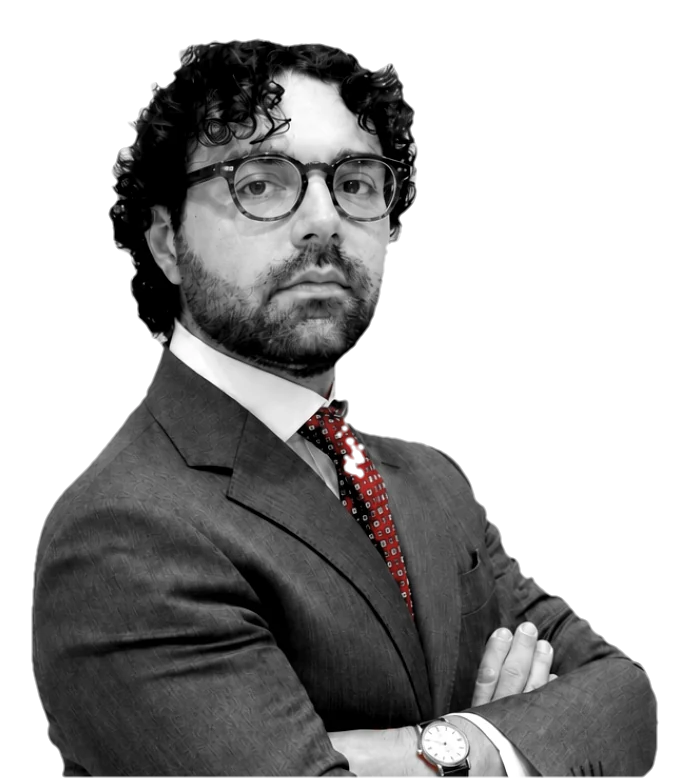
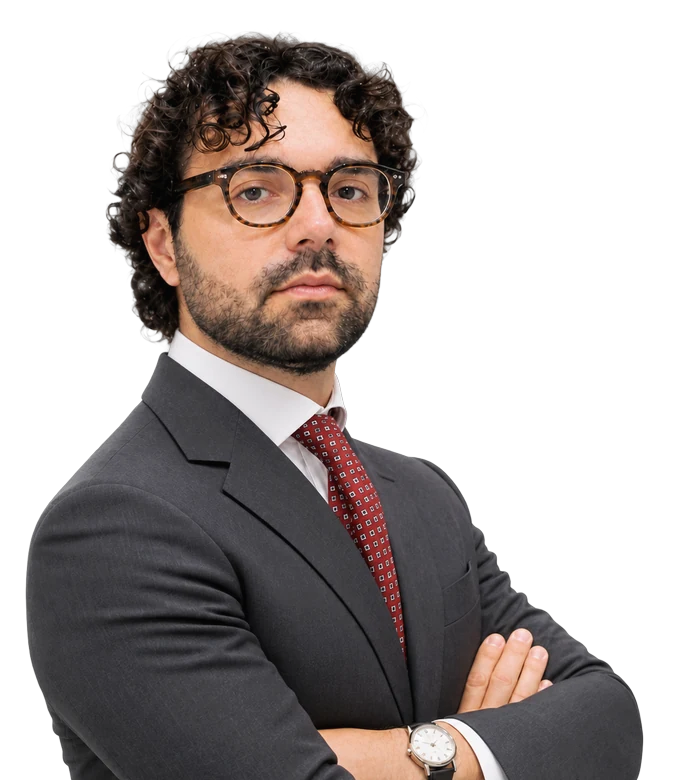
Nuove foto di Roberto e Paolo, stessa posizione e altezza
Claude-Session: https://claude.ai/code/session_01EmfZdZYx132FQue3Z3wmAy

Changed region(s): [[0.03, 0.0308, 0.96, 1.0], [0.21, 0.5231, 0.24, 0.5538], [0.18, 0.4923, 0.21, 0.5231]]

diff --git a/index.html b/index.html
@@ -10,15 +10,15 @@
 <meta name="theme-color" content="#25272C">
 <link rel="icon" href="assets/favicon.svg" type="image/svg+xml">
 <link rel="preload" href="assets/fonts/schibsted-grotesk-800.woff2" as="font" type="font/woff2" crossorigin>
-<link rel="stylesheet" href="assets/fonts.css?v=mwe0fsso">
-<link rel="stylesheet" href="assets/index.css?v=mwe0fsso">
+<link rel="stylesheet" href="assets/fonts.css?v=mwe1qma5">
+<link rel="stylesheet" href="assets/index.css?v=mwe1qma5">
 </head>
 <body>
 <div class="site"><a class="skip" href="#sapevi">Vai al contenuto</a>
 <section class="hero" id="top">
 <div class="wall" aria-hidden="true">previte<i></i></div>
 <header class="top"><a class="logo" href="#top" aria-label="previte">previte<i aria-hidden="true"></i></a><nav class="nav" aria-label="Principale"><a href="#sapevi">Lo sapevi?</a><a href="#servizi">Servizi</a><a class="pl" href="prima-lettura.html">Prima lettura</a><a class="cta" href="#scrivici">Scrivici</a></nav></header>
-<div class="duo"><img class="rob" src="assets/roberto-previte.webp" alt="Avv. Roberto Previte"><img src="assets/paolo-previte.webp" alt="Avv. Paolo Previte"></div>
+<div class="duo"><img class="rob" src="assets/roberto-previte.webp?v=mwe1qma5" alt="Avv. Roberto Previte"><img src="assets/paolo-previte.webp?v=mwe1qma5" alt="Avv. Paolo Previte"></div>
 <h1 class="tag up"><span>Avvocati</span><span>per le</span><span>imprese</span></h1>
 <div class="names"><div><b>Roberto Previte</b><span>Avvocato cassazionista</span></div><div><b>Paolo Previte</b><span>Avvocato</span></div></div>
 <nav class="tiles" aria-label="Servizi"><button type="button" class="tile" data-svc="0"><b>Compliance</b><span>Modelli 231, antiriciclaggio, intelligenza artificiale</span></button><button type="button" class="tile" data-svc="1"><b>Società e contratti</b><span>Acquisizioni, quote, contratti</span></button><button type="button" class="tile" data-svc="2"><b>Crediti</b><span>Factoring, grandi debitori, recupero</span></button><button type="button" class="tile" data-svc="3"><b>Sanità</b><span>Accreditamento, budget, ASL</span></button><button type="button" class="tile" data-svc="4"><b>Enti pubblici</b><span>Appalti, concessioni, TAR</span></button></nav>
@@ -35,7 +35,7 @@
 
 <section class="sec alt" id="servizi"><div class="in"><h2 class="h up">Servizi</h2><p class="lead">Le aree di cui ci occupiamo e chi le segue. Ogni voce porta alla pagina dedicata.</p>
 <div class="svc"><div class="sl" role="group" aria-label="Scegli un’area"><button type="button" aria-pressed="true" class="st on" data-svc="0">Compliance</button><button type="button" aria-pressed="false" class="st" data-svc="1">Società e contratti</button><button type="button" aria-pressed="false" class="st" data-svc="2">Crediti</button><button type="button" aria-pressed="false" class="st" data-svc="3">Sanità</button><button type="button" aria-pressed="false" class="st" data-svc="4">Enti pubblici</button></div>
-<div aria-live="polite" style="display:contents"><div class="sp" data-sp="0"><div class="sc"><h3 class="up">Compliance</h3><p class="l">Modelli 231, antiriciclaggio, intelligenza artificiale. Dall’analisi all’adozione.</p><a class="row" href="modelli-231.html"><span class="nm">Modelli 231</span><span class="ds">Analisi dei rischi, modello, protocolli, adozione.</span><span class="go">Apri la pagina</span></a><a class="row" href="antiriciclaggio.html"><span class="nm">Antiriciclaggio</span><span class="ds">Procedure e documenti per professionisti e imprese obbligate.</span><span class="go">Apri la pagina</span></a><a class="row" href="#scrivici"><span class="nm">Intelligenza artificiale</span><span class="ds">AI Act: obblighi, scadenze, regole d’uso in azienda.</span><span class="go">Scrivici</span></a><div class="who"><a class="btn" href="#scrivici">Scrivici</a></div></div><div class="pe"><article class="pc"><div class="ph"><img src="assets/paolo-previte.webp" alt="Avv. Paolo Previte"></div><div class="pt"><b>Paolo Previte</b><span>Avvocato</span><span>Desenzano del Garda</span><a href="tel:+393271272644">+39 327 127 2644</a></div></article></div></div><div class="sp" data-sp="1" hidden><div class="sc"><h3 class="up">Società e contratti</h3><p class="l">Acquisizioni, cessioni di quote, contratti. Verifiche, negoziazione, firma.</p><a class="row" href="#scrivici"><span class="nm">Società e acquisizioni</span><span class="ds">Quote, società, rami d’azienda.</span><span class="go">Scrivici</span></a><a class="row" href="contratti-e-crediti.html"><span class="nm">Contratti</span><span class="ds">Redazione, revisione, inadempimenti.</span><span class="go">Apri la pagina</span></a><div class="who"><a class="btn" href="#scrivici">Scrivici</a></div></div><div class="pe"><article class="pc"><div class="ph"><img src="assets/paolo-previte.webp" alt="Avv. Paolo Previte"></div><div class="pt"><b>Paolo Previte</b><span>Avvocato</span><span>Desenzano del Garda</span><a href="tel:+393271272644">+39 327 127 2644</a></div></article><article class="pc"><div class="ph"><img src="assets/roberto-previte.webp" alt="Avv. Roberto Previte"></div><div class="pt"><b>Roberto Previte</b><span>Avvocato, patrocinante in Cassazione</span><span>Crotone e Roma</span><a href="tel:+39096224565">0962 24565</a></div></article></div></div><div class="sp" data-sp="2" hidden><div class="sc"><h3 class="up">Crediti</h3><p class="l">Crediti verso grandi debitori, pubblici e privati. Anche su portafogli di centinaia di posizioni.</p><a class="row" href="factoring.html"><span class="nm">Factoring e grandi debitori</span><span class="ds">Crediti ceduti verso pubbliche amministrazioni, aziende sanitarie e grandi imprese.</span><span class="go">Apri la pagina</span></a><a class="row" href="contratti-e-crediti.html"><span class="nm">Recupero crediti</span><span class="ds">Diffida, decreto ingiuntivo, pignoramento.</span><span class="go">Apri la pagina</span></a><div class="who"><a class="btn" href="#scrivici">Scrivici</a></div></div><div class="pe"><article class="pc"><div class="ph"><img src="assets/roberto-previte.webp" alt="Avv. Roberto Previte"></div><div class="pt"><b>Roberto Previte</b><span>Avvocato, patrocinante in Cassazione</span><span>Crotone e Roma</span><a href="tel:+39096224565">0962 24565</a></div></article><article class="pc"><div class="ph"><img src="assets/paolo-previte.webp" alt="Avv. Paolo Previte"></div><div class="pt"><b>Paolo Previte</b><span>Avvocato</span><span>Desenzano del Garda</span><a href="tel:+393271272644">+39 327 127 2644</a></div></article></div></div><div class="sp" data-sp="3" hidden><div class="sc"><h3 class="up">Sanità</h3><p class="l">Strutture sanitarie private. Accreditamento, contratti, budget, crediti verso le ASL.</p><a class="row" href="sanita.html"><span class="nm">Diritto sanitario</span><span class="ds">Accreditamento, contratti e rapporti con ASL e Regioni.</span><span class="go">Apri la pagina</span></a><a class="row" href="sanita.html"><span class="nm">Crediti sanitari</span><span class="ds">Prestazioni non pagate, tetti di spesa, interessi di mora.</span><span class="go">Apri la pagina</span></a><div class="who"><a class="btn" href="#scrivici">Scrivici</a></div></div><div class="pe"><article class="pc"><div class="ph"><img src="assets/roberto-previte.webp" alt="Avv. Roberto Previte"></div><div class="pt"><b>Roberto Previte</b><span>Avvocato, patrocinante in Cassazione</span><span>Crotone e Roma</span><a href="tel:+39096224565">0962 24565</a></div></article></div></div><div class="sp" data-sp="4" hidden><div class="sc"><h3 class="up">Enti pubblici</h3><p class="l">Affidamenti, concessioni, gare. Consulenza e contenzioso amministrativo.</p><a class="row" href="enti-pubblici.html"><span class="nm">Diritto amministrativo</span><span class="ds">Affidamenti, concessioni, bandi, accesso agli atti, TAR.</span><span class="go">Apri la pagina</span></a><div class="who"><a class="btn" href="#scrivici">Scrivici</a></div></div><div class="pe"><article class="pc"><div class="ph"><img src="assets/roberto-previte.webp" alt="Avv. Roberto Previte"></div><div class="pt"><b>Roberto Previte</b><span>Avvocato, patrocinante in Cassazione</span><span>Crotone e Roma</span><a href="tel:+39096224565">0962 24565</a></div></article><article class="pc"><div class="ph"><img src="assets/paolo-previte.webp" alt="Avv. Paolo Previte"></div><div class="pt"><b>Paolo Previte</b><span>Avvocato</span><span>Desenzano del Garda</span><a href="tel:+393271272644">+39 327 127 2644</a></div></article></div></div></div></div>
+<div aria-live="polite" style="display:contents"><div class="sp" data-sp="0"><div class="sc"><h3 class="up">Compliance</h3><p class="l">Modelli 231, antiriciclaggio, intelligenza artificiale. Dall’analisi all’adozione.</p><a class="row" href="modelli-231.html"><span class="nm">Modelli 231</span><span class="ds">Analisi dei rischi, modello, protocolli, adozione.</span><span class="go">Apri la pagina</span></a><a class="row" href="antiriciclaggio.html"><span class="nm">Antiriciclaggio</span><span class="ds">Procedure e documenti per professionisti e imprese obbligate.</span><span class="go">Apri la pagina</span></a><a class="row" href="#scrivici"><span class="nm">Intelligenza artificiale</span><span class="ds">AI Act: obblighi, scadenze, regole d’uso in azienda.</span><span class="go">Scrivici</span></a><div class="who"><a class="btn" href="#scrivici">Scrivici</a></div></div><div class="pe"><article class="pc"><div class="ph"><img src="assets/paolo-previte.webp?v=mwe1qma5" alt="Avv. Paolo Previte"></div><div class="pt"><b>Paolo Previte</b><span>Avvocato</span><span>Desenzano del Garda</span><a href="tel:+393271272644">+39 327 127 2644</a></div></article></div></div><div class="sp" data-sp="1" hidden><div class="sc"><h3 class="up">Società e contratti</h3><p class="l">Acquisizioni, cessioni di quote, contratti. Verifiche, negoziazione, firma.</p><a class="row" href="#scrivici"><span class="nm">Società e acquisizioni</span><span class="ds">Quote, società, rami d’azienda.</span><span class="go">Scrivici</span></a><a class="row" href="contratti-e-crediti.html"><span class="nm">Contratti</span><span class="ds">Redazione, revisione, inadempimenti.</span><span class="go">Apri la pagina</span></a><div class="who"><a class="btn" href="#scrivici">Scrivici</a></div></div><div class="pe"><article class="pc"><div class="ph"><img src="assets/paolo-previte.webp?v=mwe1qma5" alt="Avv. Paolo Previte"></div><div class="pt"><b>Paolo Previte</b><span>Avvocato</span><span>Desenzano del Garda</span><a href="tel:+393271272644">+39 327 127 2644</a></div></article><article class="pc"><div class="ph"><img src="assets/roberto-previte.webp?v=mwe1qma5" alt="Avv. Roberto Previte"></div><div class="pt"><b>Roberto Previte</b><span>Avvocato, patrocinante in Cassazione</span><span>Crotone e Roma</span><a href="tel:+39096224565">0962 24565</a></div></article></div></div><div class="sp" data-sp="2" hidden><div class="sc"><h3 class="up">Crediti</h3><p class="l">Crediti verso grandi debitori, pubblici e privati. Anche su portafogli di centinaia di posizioni.</p><a class="row" href="factoring.html"><span class="nm">Factoring e grandi debitori</span><span class="ds">Crediti ceduti verso pubbliche amministrazioni, aziende sanitarie e grandi imprese.</span><span class="go">Apri la pagina</span></a><a class="row" href="contratti-e-crediti.html"><span class="nm">Recupero crediti</span><span class="ds">Diffida, decreto ingiuntivo, pignoramento.</span><span class="go">Apri la pagina</span></a><div class="who"><a class="btn" href="#scrivici">Scrivici</a></div></div><div class="pe"><article class="pc"><div class="ph"><img src="assets/roberto-previte.webp?v=mwe1qma5" alt="Avv. Roberto Previte"></div><div class="pt"><b>Roberto Previte</b><span>Avvocato, patrocinante in Cassazione</span><span>Crotone e Roma</span><a href="tel:+39096224565">0962 24565</a></div></article><article class="pc"><div class="ph"><img src="assets/paolo-previte.webp?v=mwe1qma5" alt="Avv. Paolo Previte"></div><div class="pt"><b>Paolo Previte</b><span>Avvocato</span><span>Desenzano del Garda</span><a href="tel:+393271272644">+39 327 127 2644</a></div></article></div></div><div class="sp" data-sp="3" hidden><div class="sc"><h3 class="up">Sanità</h3><p class="l">Strutture sanitarie private. Accreditamento, contratti, budget, crediti verso le ASL.</p><a class="row" href="sanita.html"><span class="nm">Diritto sanitario</span><span class="ds">Accreditamento, contratti e rapporti con ASL e Regioni.</span><span class="go">Apri la pagina</span></a><a class="row" href="sanita.html"><span class="nm">Crediti sanitari</span><span class="ds">Prestazioni non pagate, tetti di spesa, interessi di mora.</span><span class="go">Apri la pagina</span></a><div class="who"><a class="btn" href="#scrivici">Scrivici</a></div></div><div class="pe"><article class="pc"><div class="ph"><img src="assets/roberto-previte.webp?v=mwe1qma5" alt="Avv. Roberto Previte"></div><div class="pt"><b>Roberto Previte</b><span>Avvocato, patrocinante in Cassazione</span><span>Crotone e Roma</span><a href="tel:+39096224565">0962 24565</a></div></article></div></div><div class="sp" data-sp="4" hidden><div class="sc"><h3 class="up">Enti pubblici</h3><p class="l">Affidamenti, concessioni, gare. Consulenza e contenzioso amministrativo.</p><a class="row" href="enti-pubblici.html"><span class="nm">Diritto amministrativo</span><span class="ds">Affidamenti, concessioni, bandi, accesso agli atti, TAR.</span><span class="go">Apri la pagina</span></a><div class="who"><a class="btn" href="#scrivici">Scrivici</a></div></div><div class="pe"><article class="pc"><div class="ph"><img src="assets/roberto-previte.webp?v=mwe1qma5" alt="Avv. Roberto Previte"></div><div class="pt"><b>Roberto Previte</b><span>Avvocato, patrocinante in Cassazione</span><span>Crotone e Roma</span><a href="tel:+39096224565">0962 24565</a></div></article><article class="pc"><div class="ph"><img src="assets/paolo-previte.webp?v=mwe1qma5" alt="Avv. Paolo Previte"></div><div class="pt"><b>Paolo Previte</b><span>Avvocato</span><span>Desenzano del Garda</span><a href="tel:+393271272644">+39 327 127 2644</a></div></article></div></div></div></div>
 </div></section>
 
 </main>
@@ -46,6 +46,6 @@
 <p class="legal">Avv. Paolo Previte, Ordine degli Avvocati di Crotone, P. IVA 03872180793, PEC paolo.previte@pec.it. Avv. Roberto Previte, patrocinante in Cassazione, Ordine degli Avvocati di Crotone, P. IVA 12350540154, PEC previte@legalmail.it. Due professionisti distinti, ciascuno responsabile dei propri incarichi. <a href="privacy.html" style="text-decoration:underline">Privacy e cookie</a> · <a href="privacy.html#accessibilita" style="text-decoration:underline">Accessibilità</a></p>
 </div></footer>
 </div>
-<script src="assets/index.js?v=mwe0fsso" defer></script>
+<script src="assets/index.js?v=mwe1qma5" defer></script>
 </body>
 </html>

diff --git a/factoring.html b/factoring.html
@@ -10,14 +10,14 @@
 <meta name="theme-color" content="#25272C">
 <link rel="icon" href="assets/favicon.svg" type="image/svg+xml">
 <link rel="preload" href="assets/fonts/schibsted-grotesk-800.woff2" as="font" type="font/woff2" crossorigin>
-<link rel="stylesheet" href="assets/fonts.css?v=mwe0fsso">
-<link rel="stylesheet" href="assets/factoring.css?v=mwe0fsso">
+<link rel="stylesheet" href="assets/fonts.css?v=mwe1qma5">
+<link rel="stylesheet" href="assets/factoring.css?v=mwe1qma5">
 </head>
 <body>
 <div class="site"><a class="skip" href="#contenuto">Vai al contenuto</a>
 <header class="top"><a class="logo" href="./" aria-label="previte, torna alla home">previte<i aria-hidden="true"></i></a><nav class="nav" aria-label="Principale"><a href="./#servizi">Tutti i servizi</a><a href="./#sapevi">Lo sapevi?</a><a class="ur" href="prima-lettura.html">Prima lettura</a><a class="cta" href="#scrivici">Scrivici</a></nav></header>
 <main id="contenuto">
-<section class="hero"><div><p class="grp"><i aria-hidden="true"></i>Crediti</p><h1 class="h1 up">Factoring e grandi debitori</h1><p class="lead">Assistenza a società di factoring e cessionari nel recupero di crediti ceduti verso grandi debitori: pubbliche amministrazioni, aziende sanitarie, grandi imprese. Anche su portafogli di centinaia di posizioni.</p><div class="hb"><a class="btn" href="#scrivici">Scrivici</a><a class="btn gh" href="#inizia">Hai un portafoglio da valutare?</a></div></div><div class="pe"><article class="pc"><div class="ph"><img src="assets/roberto-previte.webp" alt="Avv. Roberto Previte"></div><div class="pt"><b>Roberto Previte</b><span>Avvocato, patrocinante in Cassazione</span><span>Crotone e Roma</span><a href="tel:+39096224565">0962 24565</a></div></article><article class="pc"><div class="ph"><img src="assets/paolo-previte.webp" alt="Avv. Paolo Previte"></div><div class="pt"><b>Paolo Previte</b><span>Avvocato</span><span>Desenzano del Garda</span><a href="tel:+393271272644">+39 327 127 2644</a></div></article></div></section>
+<section class="hero"><div><p class="grp"><i aria-hidden="true"></i>Crediti</p><h1 class="h1 up">Factoring e grandi debitori</h1><p class="lead">Assistenza a società di factoring e cessionari nel recupero di crediti ceduti verso grandi debitori: pubbliche amministrazioni, aziende sanitarie, grandi imprese. Anche su portafogli di centinaia di posizioni.</p><div class="hb"><a class="btn" href="#scrivici">Scrivici</a><a class="btn gh" href="#inizia">Hai un portafoglio da valutare?</a></div></div><div class="pe"><article class="pc"><div class="ph"><img src="assets/roberto-previte.webp?v=mwe1qma5" alt="Avv. Roberto Previte"></div><div class="pt"><b>Roberto Previte</b><span>Avvocato, patrocinante in Cassazione</span><span>Crotone e Roma</span><a href="tel:+39096224565">0962 24565</a></div></article><article class="pc"><div class="ph"><img src="assets/paolo-previte.webp?v=mwe1qma5" alt="Avv. Paolo Previte"></div><div class="pt"><b>Paolo Previte</b><span>Avvocato</span><span>Desenzano del Garda</span><a href="tel:+393271272644">+39 327 127 2644</a></div></article></div></section>
 <div class="acts"><div class="act"><b>Verifica del portafoglio</b><span>Fattura per fattura: cessione, notifiche, prova della consegna.</span></div><div class="act"><b>Lacune documentali</b><span>Cosa manca, quanto pesa, come si recupera.</span></div><div class="act"><b>Recupero</b><span>Diffide, decreti ingiuntivi, fase esecutiva.</span></div><div class="act"><b>Quadro d’insieme</b><span>Un solo prospetto per tutte le posizioni, sempre aggiornato.</span></div></div>
 <section><div class="in"><h2 class="h up">In breve</h2><div class="ex"><div><h3>Che cos’è</h3><p>Chi acquista crediti commerciali, singoli o in blocco, subentra al fornitore nel rapporto con il debitore. Quando il debitore è una pubblica amministrazione, un’azienda sanitaria o una grande impresa, il recupero segue regole e tempi propri.</p></div><div><h3>A che cosa serve</h3><p>L’assistenza serve a trasformare il portafoglio in incassi. Si verifica che ogni credito sia documentato e opponibile al debitore, si chiedono capitale e interessi di mora, si sceglie per ciascuna posizione la via più adatta.</p></div><div><h3>Perché farsi assistere</h3><p>Su centinaia di fatture occorrono metodo e conoscenza delle regole speciali sui pagamenti pubblici e sanitari. Seguiamo il portafoglio dalla verifica dei documenti al giudizio e alla fase esecutiva.</p></div></div>
 <h2 class="h2b up">In particolare se</h2><div class="wl" style="margin-top:28px"><div class="wi"><i aria-hidden="true"></i><span>Hai acquistato crediti verso un grande debitore, pubblico o privato</span></div><div class="wi"><i aria-hidden="true"></i><span>Il portafoglio è ampio e la documentazione va riordinata</span></div><div class="wi"><i aria-hidden="true"></i><span>Il debitore contesta la cessione o la fornitura</span></div><div class="wi"><i aria-hidden="true"></i><span>Vuoi una stima di quanto è recuperabile</span></div></div></div></section>

diff --git a/enti-pubblici.html b/enti-pubblici.html
@@ -10,14 +10,14 @@
 <meta name="theme-color" content="#25272C">
 <link rel="icon" href="assets/favicon.svg" type="image/svg+xml">
 <link rel="preload" href="assets/fonts/schibsted-grotesk-800.woff2" as="font" type="font/woff2" crossorigin>
-<link rel="stylesheet" href="assets/fonts.css?v=mwe0fsso">
-<link rel="stylesheet" href="assets/enti-pubblici.css?v=mwe0fsso">
+<link rel="stylesheet" href="assets/fonts.css?v=mwe1qma5">
+<link rel="stylesheet" href="assets/enti-pubblici.css?v=mwe1qma5">
 </head>
 <body>
 <div class="site"><a class="skip" href="#contenuto">Vai al contenuto</a>
 <header class="top"><a class="logo" href="./" aria-label="previte, torna alla home">previte<i aria-hidden="true"></i></a><nav class="nav" aria-label="Principale"><a href="./#servizi">Tutti i servizi</a><a href="./#sapevi">Lo sapevi?</a><a class="ur" href="prima-lettura.html">Prima lettura</a><a class="cta" href="#scrivici">Scrivici</a></nav></header>
 <main id="contenuto">
-<section class="hero"><div><p class="grp"><i aria-hidden="true"></i>Enti pubblici</p><h1 class="h1 up">Diritto amministrativo</h1><p class="lead">Affidamenti, concessioni, bandi, impianti pubblici. Consulenza e contenzioso davanti al TAR.</p><div class="hb"><a class="btn" href="#scrivici">Scrivici</a><a class="btn gh" href="#inizia">Hai ricevuto un atto del Comune o di un ente?</a></div></div><div class="pe"><article class="pc"><div class="ph"><img src="assets/roberto-previte.webp" alt="Avv. Roberto Previte"></div><div class="pt"><b>Roberto Previte</b><span>Avvocato, patrocinante in Cassazione</span><span>Crotone e Roma</span><a href="tel:+39096224565">0962 24565</a></div></article><article class="pc"><div class="ph"><img src="assets/paolo-previte.webp" alt="Avv. Paolo Previte"></div><div class="pt"><b>Paolo Previte</b><span>Avvocato</span><span>Desenzano del Garda</span><a href="tel:+393271272644">+39 327 127 2644</a></div></article></div></section>
+<section class="hero"><div><p class="grp"><i aria-hidden="true"></i>Enti pubblici</p><h1 class="h1 up">Diritto amministrativo</h1><p class="lead">Affidamenti, concessioni, bandi, impianti pubblici. Consulenza e contenzioso davanti al TAR.</p><div class="hb"><a class="btn" href="#scrivici">Scrivici</a><a class="btn gh" href="#inizia">Hai ricevuto un atto del Comune o di un ente?</a></div></div><div class="pe"><article class="pc"><div class="ph"><img src="assets/roberto-previte.webp?v=mwe1qma5" alt="Avv. Roberto Previte"></div><div class="pt"><b>Roberto Previte</b><span>Avvocato, patrocinante in Cassazione</span><span>Crotone e Roma</span><a href="tel:+39096224565">0962 24565</a></div></article><article class="pc"><div class="ph"><img src="assets/paolo-previte.webp?v=mwe1qma5" alt="Avv. Paolo Previte"></div><div class="pt"><b>Paolo Previte</b><span>Avvocato</span><span>Desenzano del Garda</span><a href="tel:+393271272644">+39 327 127 2644</a></div></article></div></section>
 <div class="acts"><div class="act"><b>Affidamenti e concessioni</b><span>Impianti sportivi, spazi e servizi pubblici: come si ottengono e come si contestano.</span></div><div class="act"><b>Bandi e gare</b><span>Lettura del bando, offerta, esclusioni, aggiudicazione.</span></div><div class="act"><b>Accesso agli atti</b><span>Per vedere cosa ha deciso l’ente e su quali basi.</span></div><div class="act"><b>Ricorsi</b><span>Diffide, istanze di autotutela, ricorso al TAR.</span></div></div>
 <section><div class="in"><h2 class="h up">In breve</h2><div class="ex"><div><h3>Che cos’è</h3><p>Il diritto amministrativo regola i rapporti con Comuni, Regioni, ASL e altri enti: gare, affidamenti, concessioni di spazi e impianti, autorizzazioni.</p></div><div><h3>A che cosa serve</h3><p>L’assistenza è utile a chi lavora con il settore pubblico o è destinatario di una sua decisione: per partecipare a una procedura nel modo corretto, per ottenere un provvedimento, per contestarne uno.</p></div><div><h3>Perché farsi assistere</h3><p>I termini sono brevi, in molti casi trenta o sessanta giorni, e le regole sono tecniche. Un confronto prima di presentare un’offerta o subito dopo un diniego permette spesso di evitare il contenzioso.</p></div></div>
 <h2 class="h2b up">In particolare se</h2><div class="wl" style="margin-top:28px"><div class="wi"><i aria-hidden="true"></i><span>Un impianto è stato affidato senza gara</span></div><div class="wi"><i aria-hidden="true"></i><span>Sei stato escluso da un bando</span></div><div class="wi"><i aria-hidden="true"></i><span>Il Comune non ha risposto alla tua istanza</span></div><div class="wi"><i aria-hidden="true"></i><span>Una concessione è in scadenza e vuoi partecipare</span></div></div></div></section>

diff --git a/contratti-e-crediti.html b/contratti-e-crediti.html
@@ -10,14 +10,14 @@
 <meta name="theme-color" content="#25272C">
 <link rel="icon" href="assets/favicon.svg" type="image/svg+xml">
 <link rel="preload" href="assets/fonts/schibsted-grotesk-800.woff2" as="font" type="font/woff2" crossorigin>
-<link rel="stylesheet" href="assets/fonts.css?v=mwe0fsso">
-<link rel="stylesheet" href="assets/contratti-e-crediti.css?v=mwe0fsso">
+<link rel="stylesheet" href="assets/fonts.css?v=mwe1qma5">
+<link rel="stylesheet" href="assets/contratti-e-crediti.css?v=mwe1qma5">
 </head>
 <body>
 <div class="site"><a class="skip" href="#contenuto">Vai al contenuto</a>
 <header class="top"><a class="logo" href="./" aria-label="previte, torna alla home">previte<i aria-hidden="true"></i></a><nav class="nav" aria-label="Principale"><a href="./#servizi">Tutti i servizi</a><a href="./#sapevi">Lo sapevi?</a><a class="ur" href="prima-lettura.html">Prima lettura</a><a class="cta" href="#scrivici">Scrivici</a></nav></header>
 <main id="contenuto">
-<section class="hero"><div><p class="grp"><i aria-hidden="true"></i>Società e contratti, Crediti</p><h1 class="h1 up">Contratti e recupero crediti</h1><p class="lead">Contratti, responsabilità e recupero crediti. In giudizio e fuori.</p><div class="hb"><a class="btn" href="#scrivici">Scrivici</a><a class="btn gh" href="#inizia">Hai ricevuto un atto o hai un contratto da firmare?</a></div></div><div class="pe"><article class="pc"><div class="ph"><img src="assets/roberto-previte.webp" alt="Avv. Roberto Previte"></div><div class="pt"><b>Roberto Previte</b><span>Avvocato, patrocinante in Cassazione</span><span>Crotone e Roma</span><a href="tel:+39096224565">0962 24565</a></div></article><article class="pc"><div class="ph"><img src="assets/paolo-previte.webp" alt="Avv. Paolo Previte"></div><div class="pt"><b>Paolo Previte</b><span>Avvocato</span><span>Desenzano del Garda</span><a href="tel:+393271272644">+39 327 127 2644</a></div></article></div></section>
+<section class="hero"><div><p class="grp"><i aria-hidden="true"></i>Società e contratti, Crediti</p><h1 class="h1 up">Contratti e recupero crediti</h1><p class="lead">Contratti, responsabilità e recupero crediti. In giudizio e fuori.</p><div class="hb"><a class="btn" href="#scrivici">Scrivici</a><a class="btn gh" href="#inizia">Hai ricevuto un atto o hai un contratto da firmare?</a></div></div><div class="pe"><article class="pc"><div class="ph"><img src="assets/roberto-previte.webp?v=mwe1qma5" alt="Avv. Roberto Previte"></div><div class="pt"><b>Roberto Previte</b><span>Avvocato, patrocinante in Cassazione</span><span>Crotone e Roma</span><a href="tel:+39096224565">0962 24565</a></div></article><article class="pc"><div class="ph"><img src="assets/paolo-previte.webp?v=mwe1qma5" alt="Avv. Paolo Previte"></div><div class="pt"><b>Paolo Previte</b><span>Avvocato</span><span>Desenzano del Garda</span><a href="tel:+393271272644">+39 327 127 2644</a></div></article></div></section>
 <div class="acts"><div class="act"><b>Contratti</b><span>Redazione, revisione, inadempimenti.</span></div><div class="act"><b>Recupero crediti</b><span>Diffida, decreto ingiuntivo, pignoramento.</span></div><div class="act"><b>Responsabilità civile</b><span>Danni contrattuali ed extracontrattuali.</span></div><div class="act"><b>Contenzioso</b><span>Tribunale, Corte d’Appello, Cassazione.</span></div></div>
 <section><div class="in"><h2 class="h up">In breve</h2><div class="ex"><div><h3>Che cos’è</h3><p>Contratti e crediti sono la vita ordinaria di un’impresa: gli accordi con clienti e fornitori, i pagamenti da ottenere, le responsabilità da chiarire.</p></div><div><h3>A che cosa serve</h3><p>Un contratto scritto con cura previene molte liti. Quando la lite è già nata, l’assistenza serve a recuperare il credito o a difendersi nei tempi che la legge concede.</p></div><div><h3>Perché farsi assistere</h3><p>Ogni atto ha forme e termini precisi. Affianchiamo l’impresa nella trattativa, nella redazione del contratto e, se occorre, in giudizio fino alla Cassazione.</p></div></div>
 <h2 class="h2b up">In particolare se</h2><div class="wl" style="margin-top:28px"><div class="wi"><i aria-hidden="true"></i><span>Un cliente non paga</span></div><div class="wi"><i aria-hidden="true"></i><span>Un contratto non viene rispettato</span></div><div class="wi"><i aria-hidden="true"></i><span>Hai ricevuto un atto di citazione</span></div><div class="wi"><i aria-hidden="true"></i><span>Vuoi chiudere una lite con un accordo</span></div></div></div></section>

diff --git a/modelli-231.html b/modelli-231.html
@@ -10,14 +10,14 @@
 <meta name="theme-color" content="#25272C">
 <link rel="icon" href="assets/favicon.svg" type="image/svg+xml">
 <link rel="preload" href="assets/fonts/schibsted-grotesk-800.woff2" as="font" type="font/woff2" crossorigin>
-<link rel="stylesheet" href="assets/fonts.css?v=mwe0fsso">
-<link rel="stylesheet" href="assets/modelli-231.css?v=mwe0fsso">
+<link rel="stylesheet" href="assets/fonts.css?v=mwe1qma5">
+<link rel="stylesheet" href="assets/modelli-231.css?v=mwe1qma5">
 </head>
 <body>
 <div class="site"><a class="skip" href="#contenuto">Vai al contenuto</a>
 <header class="top"><a class="logo" href="./" aria-label="previte, torna alla home">previte<i aria-hidden="true"></i></a><nav class="nav" aria-label="Principale"><a href="./#servizi">Tutti i servizi</a><a href="./#sapevi">Lo sapevi?</a><a class="ur" href="prima-lettura.html">Prima lettura</a><a class="cta" href="#scrivici">Scrivici</a></nav></header>
 <main id="contenuto">
-<section class="hero"><div><p class="grp"><i aria-hidden="true"></i>Compliance</p><h1 class="h1 up">Modelli 231</h1><p class="lead">Modello di organizzazione, gestione e controllo ai sensi del D.Lgs. 231/2001. Analisi dei rischi, redazione, adozione, aggiornamento.</p><div class="hb"><a class="btn" href="#scrivici">Scrivici</a><a class="btn gh" href="#inizia">Hai già un modello?</a></div></div><div class="pe"><article class="pc"><div class="ph"><img src="assets/paolo-previte.webp" alt="Avv. Paolo Previte"></div><div class="pt"><b>Paolo Previte</b><span>Avvocato</span><span>Desenzano del Garda</span><a href="tel:+393271272644">+39 327 127 2644</a></div></article></div></section>
+<section class="hero"><div><p class="grp"><i aria-hidden="true"></i>Compliance</p><h1 class="h1 up">Modelli 231</h1><p class="lead">Modello di organizzazione, gestione e controllo ai sensi del D.Lgs. 231/2001. Analisi dei rischi, redazione, adozione, aggiornamento.</p><div class="hb"><a class="btn" href="#scrivici">Scrivici</a><a class="btn gh" href="#inizia">Hai già un modello?</a></div></div><div class="pe"><article class="pc"><div class="ph"><img src="assets/paolo-previte.webp?v=mwe1qma5" alt="Avv. Paolo Previte"></div><div class="pt"><b>Paolo Previte</b><span>Avvocato</span><span>Desenzano del Garda</span><a href="tel:+393271272644">+39 327 127 2644</a></div></article></div></section>
 <div class="acts"><div class="act"><b>Mappa dei rischi</b><span>Ogni processo letto alla luce dei reati che riguardano la tua azienda.</span></div><div class="act"><b>Modello e protocolli</b><span>Regole e controlli costruiti sui processi della tua azienda.</span></div><div class="act"><b>Organismo di Vigilanza</b><span>Regolamento, flussi informativi, avvio.</span></div><div class="act"><b>Aggiornamento</b><span>Il modello resta allineato alle norme e all’azienda.</span></div></div>
 <section><div class="in"><h2 class="h up">In breve</h2><div class="ex"><div><h3>Che cos’è</h3><p>Il modello di organizzazione, gestione e controllo è l’insieme delle regole con cui un’impresa previene i reati che possono essere commessi nel suo interesse, dalla sicurezza sul lavoro ai reati societari, tributari e ambientali.</p></div><div><h3>Perché adottarlo</h3><p>La legge non lo impone, ma lo raccomanda con forza. Se viene commesso uno di quei reati, l’impresa che ha adottato e applicato un modello adeguato può andare esente da responsabilità. Senza modello risponde con sanzioni pecuniarie e, nei casi più gravi, con l’interdizione dall’attività. Per questo è utile a ogni impresa, quale che sia la dimensione.</p></div><div><h3>Perché farsi assistere</h3><p>Un modello tutela l’impresa se è costruito sui suoi processi e se viene tenuto aggiornato. Occorre individuare i reati rilevanti, valutare i rischi, scrivere protocolli che le persone possano seguire nel lavoro di ogni giorno e accompagnare l’Organismo di Vigilanza.</p></div></div>
 <h2 class="h2b up">È utile sempre. In particolare se</h2><div class="wl" style="margin-top:28px"><div class="wi"><i aria-hidden="true"></i><span>Una banca o un committente ti chiede il modello</span></div><div class="wi"><i aria-hidden="true"></i><span>Partecipi a gare pubbliche</span></div><div class="wi"><i aria-hidden="true"></i><span>L’azienda è cresciuta e deleghe e responsabilità vanno ridefinite</span></div><div class="wi"><i aria-hidden="true"></i><span>C’è stato un infortunio o un controllo</span></div></div></div></section>

diff --git a/antiriciclaggio.html b/antiriciclaggio.html
@@ -10,14 +10,14 @@
 <meta name="theme-color" content="#25272C">
 <link rel="icon" href="assets/favicon.svg" type="image/svg+xml">
 <link rel="preload" href="assets/fonts/schibsted-grotesk-800.woff2" as="font" type="font/woff2" crossorigin>
-<link rel="stylesheet" href="assets/fonts.css?v=mwe0fsso">
-<link rel="stylesheet" href="assets/antiriciclaggio.css?v=mwe0fsso">
+<link rel="stylesheet" href="assets/fonts.css?v=mwe1qma5">
+<link rel="stylesheet" href="assets/antiriciclaggio.css?v=mwe1qma5">
 </head>
 <body>
 <div class="site"><a class="skip" href="#contenuto">Vai al contenuto</a>
 <header class="top"><a class="logo" href="./" aria-label="previte, torna alla home">previte<i aria-hidden="true"></i></a><nav class="nav" aria-label="Principale"><a href="./#servizi">Tutti i servizi</a><a href="./#sapevi">Lo sapevi?</a><a class="ur" href="prima-lettura.html">Prima lettura</a><a class="cta" href="#scrivici">Scrivici</a></nav></header>
 <main id="contenuto">
-<section class="hero"><div><p class="grp"><i aria-hidden="true"></i>Compliance</p><h1 class="h1 up">Antiriciclaggio</h1><p class="lead">Adempimenti antiriciclaggio per professionisti e imprese obbligate. Autovalutazione, adeguata verifica, conservazione, formazione.</p><div class="hb"><a class="btn" href="#scrivici">Scrivici</a><a class="btn gh" href="#inizia">Vuoi fare il punto sugli adempimenti?</a></div></div><div class="pe"><article class="pc"><div class="ph"><img src="assets/paolo-previte.webp" alt="Avv. Paolo Previte"></div><div class="pt"><b>Paolo Previte</b><span>Avvocato</span><span>Desenzano del Garda</span><a href="tel:+393271272644">+39 327 127 2644</a></div></article></div></section>
+<section class="hero"><div><p class="grp"><i aria-hidden="true"></i>Compliance</p><h1 class="h1 up">Antiriciclaggio</h1><p class="lead">Adempimenti antiriciclaggio per professionisti e imprese obbligate. Autovalutazione, adeguata verifica, conservazione, formazione.</p><div class="hb"><a class="btn" href="#scrivici">Scrivici</a><a class="btn gh" href="#inizia">Vuoi fare il punto sugli adempimenti?</a></div></div><div class="pe"><article class="pc"><div class="ph"><img src="assets/paolo-previte.webp?v=mwe1qma5" alt="Avv. Paolo Previte"></div><div class="pt"><b>Paolo Previte</b><span>Avvocato</span><span>Desenzano del Garda</span><a href="tel:+393271272644">+39 327 127 2644</a></div></article></div></section>
 <div class="acts"><div class="act"><b>Autovalutazione del rischio</b><span>Il primo documento richiesto in caso di controllo, costruito sulla tua clientela.</span></div><div class="act"><b>Adeguata verifica</b><span>Moduli e istruzioni per identificare cliente e titolare effettivo.</span></div><div class="act"><b>Conservazione</b><span>Cosa tenere, dove e per quanto.</span></div><div class="act"><b>Formazione</b><span>Chi va formato e come se ne tiene traccia.</span></div></div>
 <section><div class="in"><h2 class="h up">In breve</h2><div class="ex"><div><h3>Che cos’è</h3><p>La normativa antiriciclaggio chiede a professionisti e ad alcune imprese di conoscere i propri clienti, valutare il rischio delle operazioni e conservarne traccia. Riguarda, tra gli altri, commercialisti, notai, avvocati e agenti immobiliari.</p></div><div><h3>A che cosa serve</h3><p>Gli adempimenti sono obbligatori e la loro mancanza è sanzionata. Un sistema ordinato tutela lo studio o l’impresa in caso di controllo e permette di seguire con tranquillità anche i clienti dalla struttura più complessa.</p></div><div><h3>Perché farsi assistere</h3><p>Le regole cambiano spesso e dal 10 luglio 2027 si applicherà il regolamento europeo. Aiutiamo a costruire procedure proporzionate alla realtà di ciascuno, con i documenti necessari e senza appesantire il lavoro quotidiano.</p></div></div>
 <h2 class="h2b up">In particolare se</h2><div class="wl" style="margin-top:28px"><div class="wi"><i aria-hidden="true"></i><span>Hai uno studio professionale o un’agenzia immobiliare</span></div><div class="wi"><i aria-hidden="true"></i><span>Vuoi arrivare preparato a un controllo</span></div><div class="wi"><i aria-hidden="true"></i><span>Vuoi mettere per iscritto le procedure dello studio</span></div><div class="wi"><i aria-hidden="true"></i><span>Entra un cliente con una struttura societaria complessa</span></div></div></div></section>

diff --git a/sanita.html b/sanita.html
@@ -10,14 +10,14 @@
 <meta name="theme-color" content="#25272C">
 <link rel="icon" href="assets/favicon.svg" type="image/svg+xml">
 <link rel="preload" href="assets/fonts/schibsted-grotesk-800.woff2" as="font" type="font/woff2" crossorigin>
-<link rel="stylesheet" href="assets/fonts.css?v=mwe0fsso">
-<link rel="stylesheet" href="assets/sanita.css?v=mwe0fsso">
+<link rel="stylesheet" href="assets/fonts.css?v=mwe1qma5">
+<link rel="stylesheet" href="assets/sanita.css?v=mwe1qma5">
 </head>
 <body>
 <div class="site"><a class="skip" href="#contenuto">Vai al contenuto</a>
 <header class="top"><a class="logo" href="./" aria-label="previte, torna alla home">previte<i aria-hidden="true"></i></a><nav class="nav" aria-label="Principale"><a href="./#servizi">Tutti i servizi</a><a href="./#sapevi">Lo sapevi?</a><a class="ur" href="prima-lettura.html">Prima lettura</a><a class="cta" href="#scrivici">Scrivici</a></nav></header>
 <main id="contenuto">
-<section class="hero"><div><p class="grp"><i aria-hidden="true"></i>Sanità</p><h1 class="h1 up">Diritto sanitario</h1><p class="lead">Strutture sanitarie private. Accreditamento, contratti, budget, crediti verso le ASL.</p><div class="hb"><a class="btn" href="#scrivici">Scrivici</a><a class="btn gh" href="#inizia">Hai una nota sul budget o un contratto da firmare?</a></div></div><div class="pe"><article class="pc"><div class="ph"><img src="assets/roberto-previte.webp" alt="Avv. Roberto Previte"></div><div class="pt"><b>Roberto Previte</b><span>Avvocato, patrocinante in Cassazione</span><span>Crotone e Roma</span><a href="tel:+39096224565">0962 24565</a></div></article></div></section>
+<section class="hero"><div><p class="grp"><i aria-hidden="true"></i>Sanità</p><h1 class="h1 up">Diritto sanitario</h1><p class="lead">Strutture sanitarie private. Accreditamento, contratti, budget, crediti verso le ASL.</p><div class="hb"><a class="btn" href="#scrivici">Scrivici</a><a class="btn gh" href="#inizia">Hai una nota sul budget o un contratto da firmare?</a></div></div><div class="pe"><article class="pc"><div class="ph"><img src="assets/roberto-previte.webp?v=mwe1qma5" alt="Avv. Roberto Previte"></div><div class="pt"><b>Roberto Previte</b><span>Avvocato, patrocinante in Cassazione</span><span>Crotone e Roma</span><a href="tel:+39096224565">0962 24565</a></div></article></div></section>
 <div class="acts"><div class="act"><b>Accreditamento e contratti</b><span>Autorizzazioni, accreditamento istituzionale, contratti con le ASL.</span></div><div class="act"><b>Budget e tetti di spesa</b><span>Contestazione dei tetti, extra budget, regressioni tariffarie.</span></div><div class="act"><b>Crediti verso ASL</b><span>Prestazioni rese e non pagate: diffida, decreto ingiuntivo, esecuzione.</span></div><div class="act"><b>Contenzioso</b><span>Tribunale, TAR, Consiglio di Stato, Cassazione.</span></div></div>
 <section><div class="in"><h2 class="h up">In breve</h2><div class="ex"><div><h3>Che cos’è</h3><p>Le strutture sanitarie private lavorano con il Servizio sanitario attraverso l’autorizzazione, l’accreditamento e i contratti con le ASL, entro i tetti di spesa fissati dalle Regioni.</p></div><div><h3>A che cosa serve</h3><p>L’assistenza legale tutela la struttura nei passaggi di questo rapporto: quando si firma il contratto, quando il budget viene ridotto, quando le prestazioni rese non vengono pagate.</p></div><div><h3>Perché farsi assistere</h3><p>È una materia a cavallo tra diritto amministrativo e diritto civile, con termini brevi per impugnare gli atti. Un esame tempestivo consente di scegliere la sede giusta e di non perdere diritti.</p></div></div>
 <h2 class="h2b up">In particolare se</h2><div class="wl" style="margin-top:28px"><div class="wi"><i aria-hidden="true"></i><span>L’ASL non paga le prestazioni erogate</span></div><div class="wi"><i aria-hidden="true"></i><span>Il budget assegnato è stato ridotto</span></div><div class="wi"><i aria-hidden="true"></i><span>L’accreditamento è stato sospeso o negato</span></div><div class="wi"><i aria-hidden="true"></i><span>Devi firmare il contratto con l’ASL</span></div></div></div></section>

diff --git a/prima-lettura.html b/prima-lettura.html
@@ -10,8 +10,8 @@
 <meta name="theme-color" content="#25272C">
 <link rel="icon" href="assets/favicon.svg" type="image/svg+xml">
 <link rel="preload" href="assets/fonts/schibsted-grotesk-800.woff2" as="font" type="font/woff2" crossorigin>
-<link rel="stylesheet" href="assets/fonts.css?v=mwe0fsso">
-<link rel="stylesheet" href="assets/prima-lettura.css?v=mwe0fsso">
+<link rel="stylesheet" href="assets/fonts.css?v=mwe1qma5">
+<link rel="stylesheet" href="assets/prima-lettura.css?v=mwe1qma5">
 </head>
 <body>
 <div class="site"><a class="skip" href="#contenuto">Vai al contenuto</a>
@@ -63,6 +63,6 @@
 <footer class="foot">Avv. Paolo Previte, Ordine degli Avvocati di Crotone, P. IVA 03872180793, PEC paolo.previte@pec.it. Avv. Roberto Previte, patrocinante in Cassazione, Ordine degli Avvocati di Crotone, P. IVA 12350540154, PEC previte@legalmail.it. Due professionisti distinti, ciascuno responsabile dei propri incarichi. <a href="privacy.html" style="text-decoration:underline">Privacy e cookie</a> · <a href="privacy.html#accessibilita" style="text-decoration:underline">Accessibilità</a></footer>
 </main>
 </div>
-<script src="assets/prima-lettura.js?v=mwe0fsso" defer></script>
+<script src="assets/prima-lettura.js?v=mwe1qma5" defer></script>
 </body>
 </html>

diff --git a/privacy.html b/privacy.html
@@ -10,8 +10,8 @@
 <meta name="theme-color" content="#25272C">
 <link rel="icon" href="assets/favicon.svg" type="image/svg+xml">
 <link rel="preload" href="assets/fonts/schibsted-grotesk-800.woff2" as="font" type="font/woff2" crossorigin>
-<link rel="stylesheet" href="assets/fonts.css?v=mwe0fsso">
-<link rel="stylesheet" href="assets/privacy.css?v=mwe0fsso">
+<link rel="stylesheet" href="assets/fonts.css?v=mwe1qma5">
+<link rel="stylesheet" href="assets/privacy.css?v=mwe1qma5">
 </head>
 <body>
 <div class="site"><a class="skip" href="#contenuto">Vai al contenuto</a>
